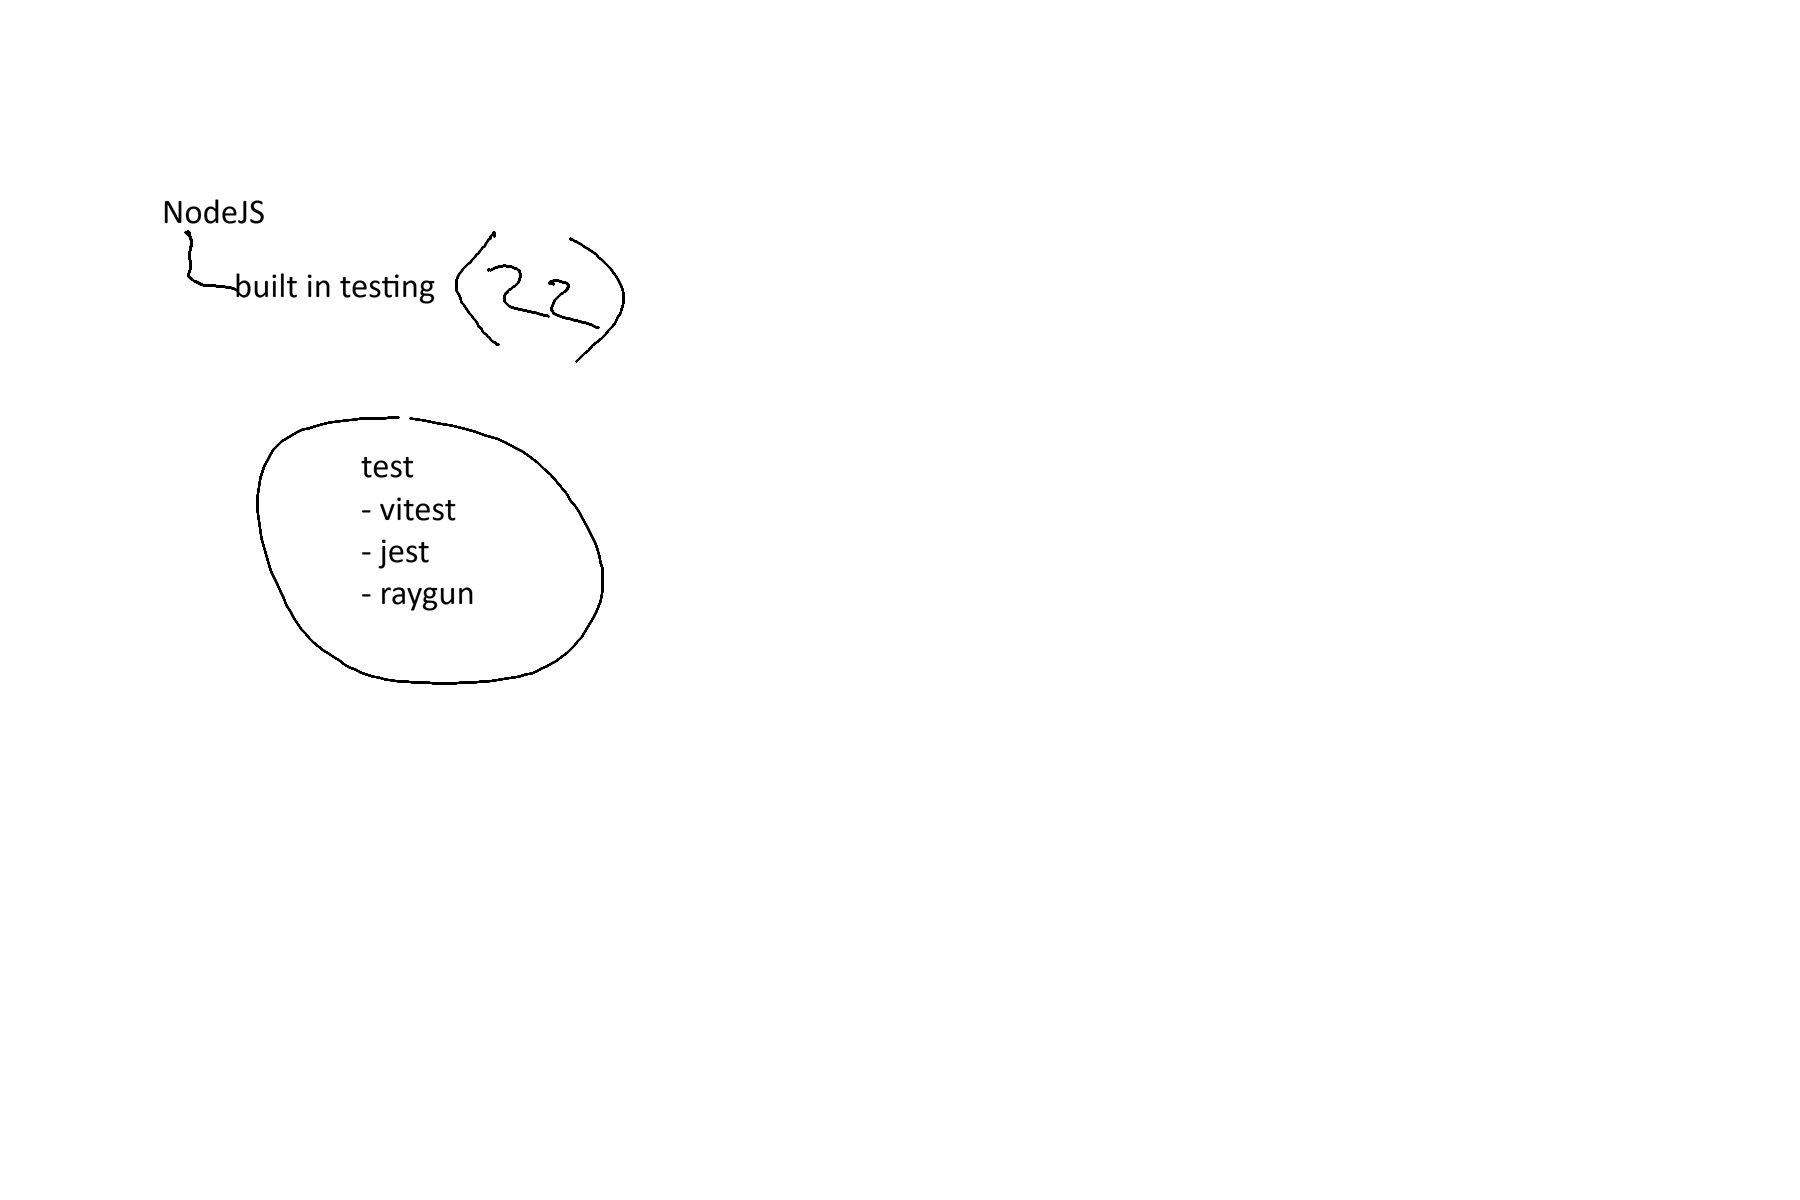
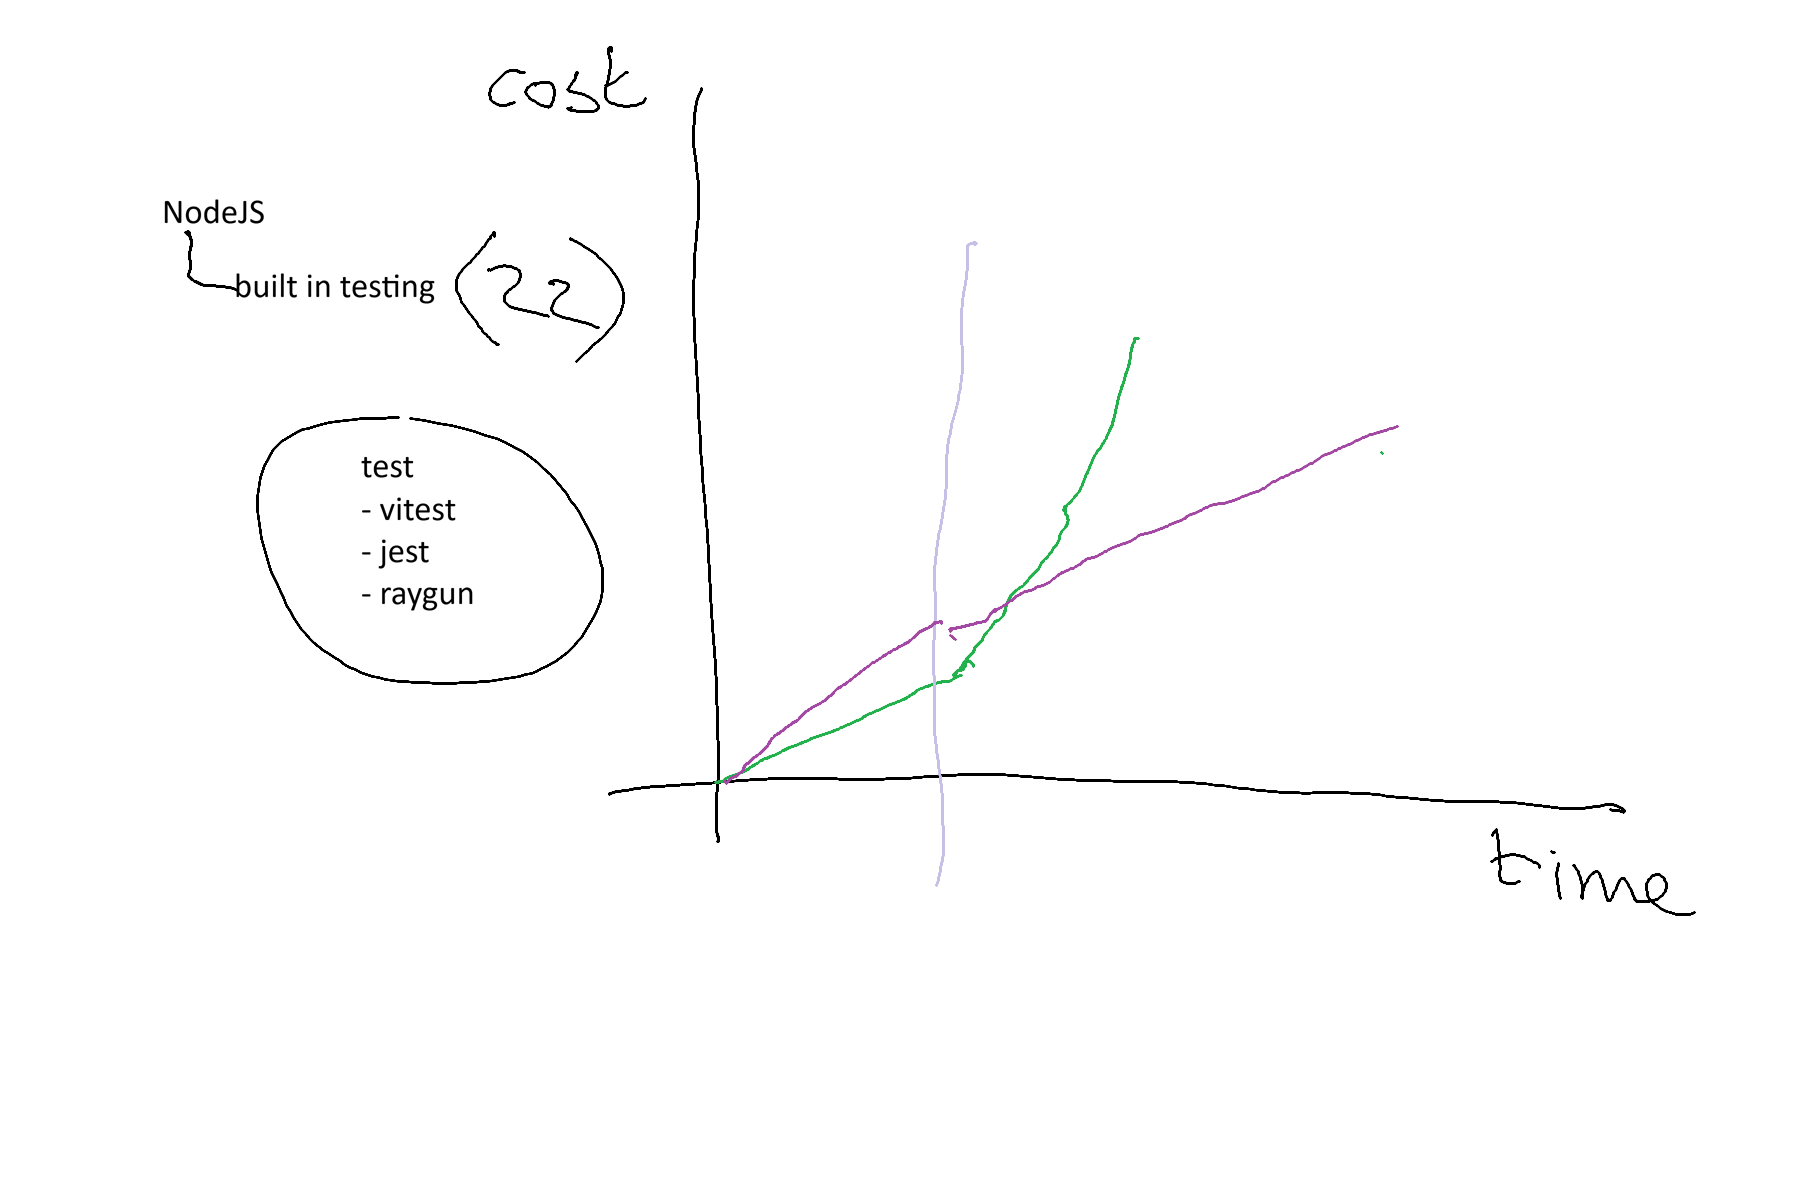
the NodeJS event loop

diff --git a/08_event_loop/01_events.js b/08_event_loop/01_events.js
@@ -1,0 +1,54 @@
+// Node uses an event loop on a single thread
+// this may mean any operation prevents other operations from happening
+// Node uses an event loop to move as much as possible out of Node to the Operating System
+// file system, server (https, tcp/ip, socket), API/REST, console.log
+
+// here is some pseudo code
+// const doStuff = ()=>{}
+// anything.on('wibble', doStuff)
+
+// Response.status(()=>{})
+// .then(()=>{})
+// FileSystem.read(()=>{})
+
+// main( await doStuff(), ()=>{} )
+
+
+// timeout_vs_immediate.js
+setTimeout(() => {
+  console.log('timeout');
+}, 0); // we ask to run in zero milliseconds
+
+setImmediate(() => {
+  console.log('immediate');
+});
+
+// code from https://nodejs.org/learn/asynchronous-work/event-loop-timers-and-nexttick
+import EventEmitter from 'node:events';
+
+class MyEmitter extends EventEmitter {
+  constructor() {
+    super();
+
+    // use nextTick to emit the event once a handler is assigned
+    process.nextTick(() => {
+      this.emit('event');
+    });
+  }
+}
+
+const myEmitter = new MyEmitter();
+myEmitter.on('event', () => {
+  console.log('an event occurred!');
+});
+
+
+
+
+
+
+
+
+
+
+

diff --git a/readme.md b/readme.md
@@ -13,7 +13,7 @@ September 7-9 2026
 * welcome and tech-check
 * overview of the course, exercises etc.
 * visual studio code: pick a folder, and open it with vsc
-- introducing NodeJS
+* introducing NodeJS
 * course repo (all my code will be here)
     https://github.com/onionmccabbage/nodejsSept2026
 * servers and files (microservices)
@@ -36,18 +36,18 @@ September 7-9 2026
   - `streams are arrays over time`
 * modules, package.json and npm
 * sync and async
-- ways to import and export
-- architecture best/common practices
+* ways to import and export: import nnn, or import {nnn}
+* architecture best/common practices
 - debugging and Chrome dev tools
 * review exercise (inc debug)
 * fetch: the latest...
 * EventEmitter
-- dev/prod and tool-chains
+* dev/prod and tool-chains
 * write scripts in package.json to "debug": "node --inspect-brk calc.js"
-- unit testing
+* unit testing  
   https://vitest.dev/guide/ also https://jestjs.io/docs/getting-started
   https://raygun.com/blog/javascript-unit-testing-frameworks/#vitest
-- test-driven development and robust coding
+* test-driven development and robust coding
 - ES features
 - Typescript is important...
   npm install -g tsc // the typescript compiler
@@ -63,15 +63,15 @@ Naming assets (files. folder, variables, functions)
 #### Wednesday
 - the event loop
 - Node events
-- Web and webpack
-- Observables see https://rxjs.dev and https://rxmarbles.com/
+- Web and webpack (briefly)
+* Observables see https://rxjs.dev and https://rxmarbles.com/
 - responding to events and handling errors
 - features:
   see https://caniuse.com/ and https://compat-table.github.io/compat-table/es6/
 - Express.js for convenient server-side features
 - Express architecture: server, index, middleware
 - buffers and streams
-- review exercises inc optional testing
+- review exercises (inc. optional testing)
 
 end of course feedback
-
+  https://forms.cloud.microsoft/e/7QZfPEw71T
